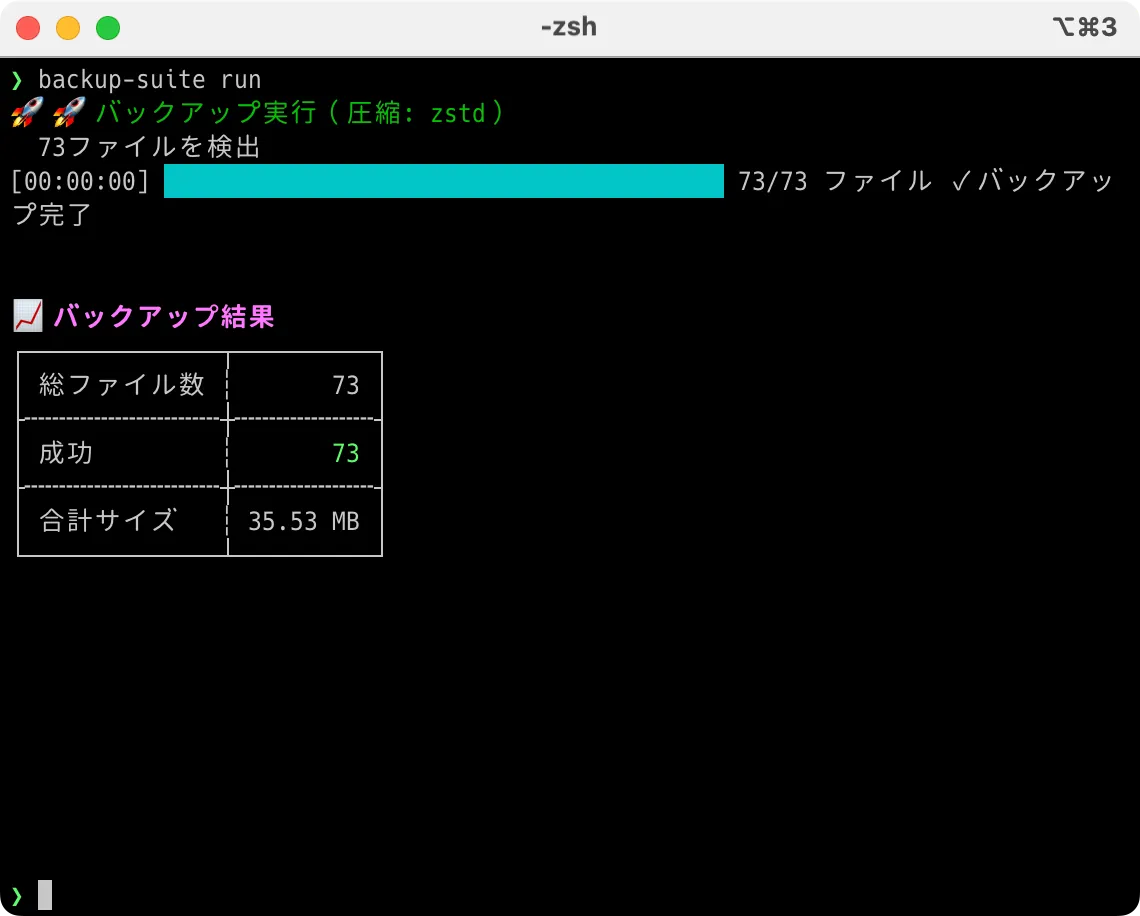
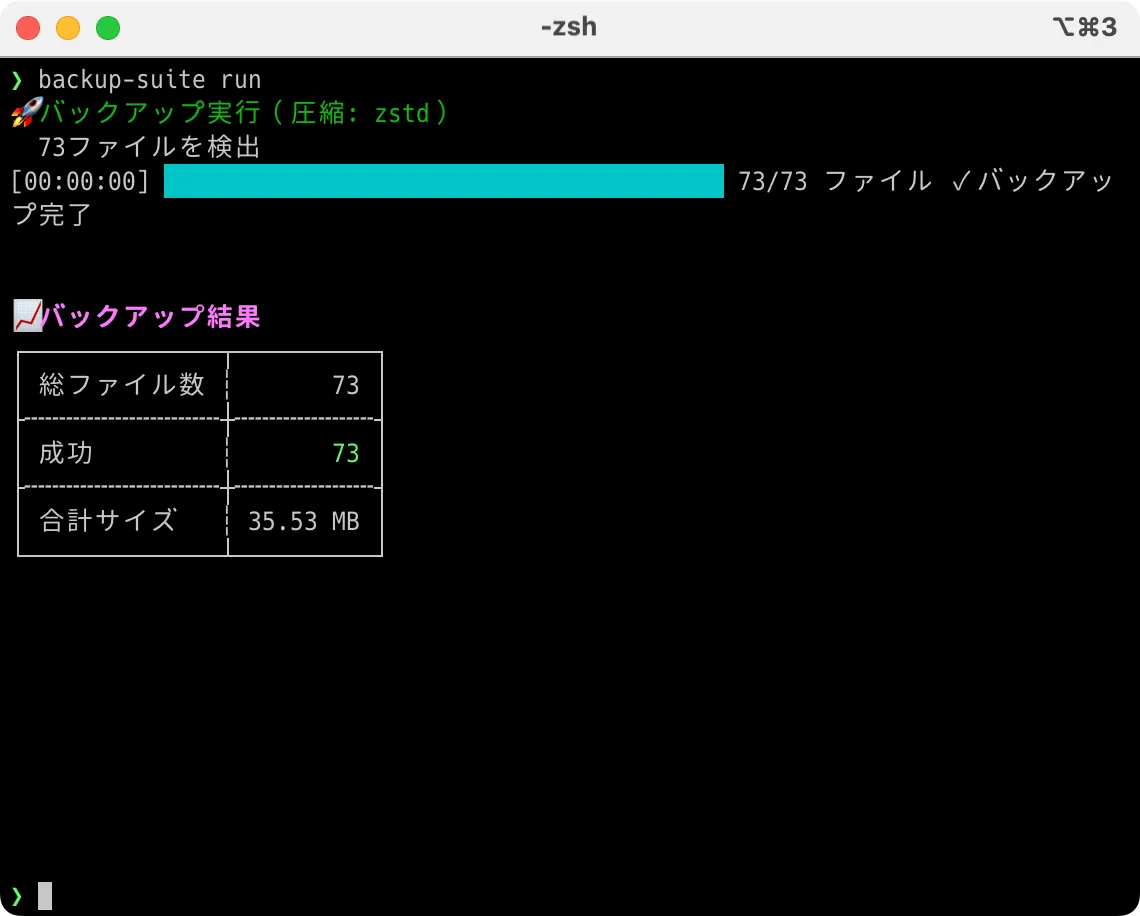
fix: バックアップ実行メッセージのフォーマットを修正
src/main.rsのバックアップ実行メッセージからオプション情報を削除しました。

Changed region(s): [[0.0307, 0.0917, 0.4298, 0.1528], [0.0307, 0.3362, 0.2456, 0.3668]]

diff --git a/src/main.rs b/src/main.rs
@@ -869,7 +869,7 @@ fn main() -> Result<()> {
                 format!("（{}）", options_info.join("、"))
             };
 
-            println!("{}🚀 {}{}{}",
+            println!("{}{}{}{}",
                 get_color("green"),
                 get_message(MessageKey::BackupRunning, lang),
                 options_str,
